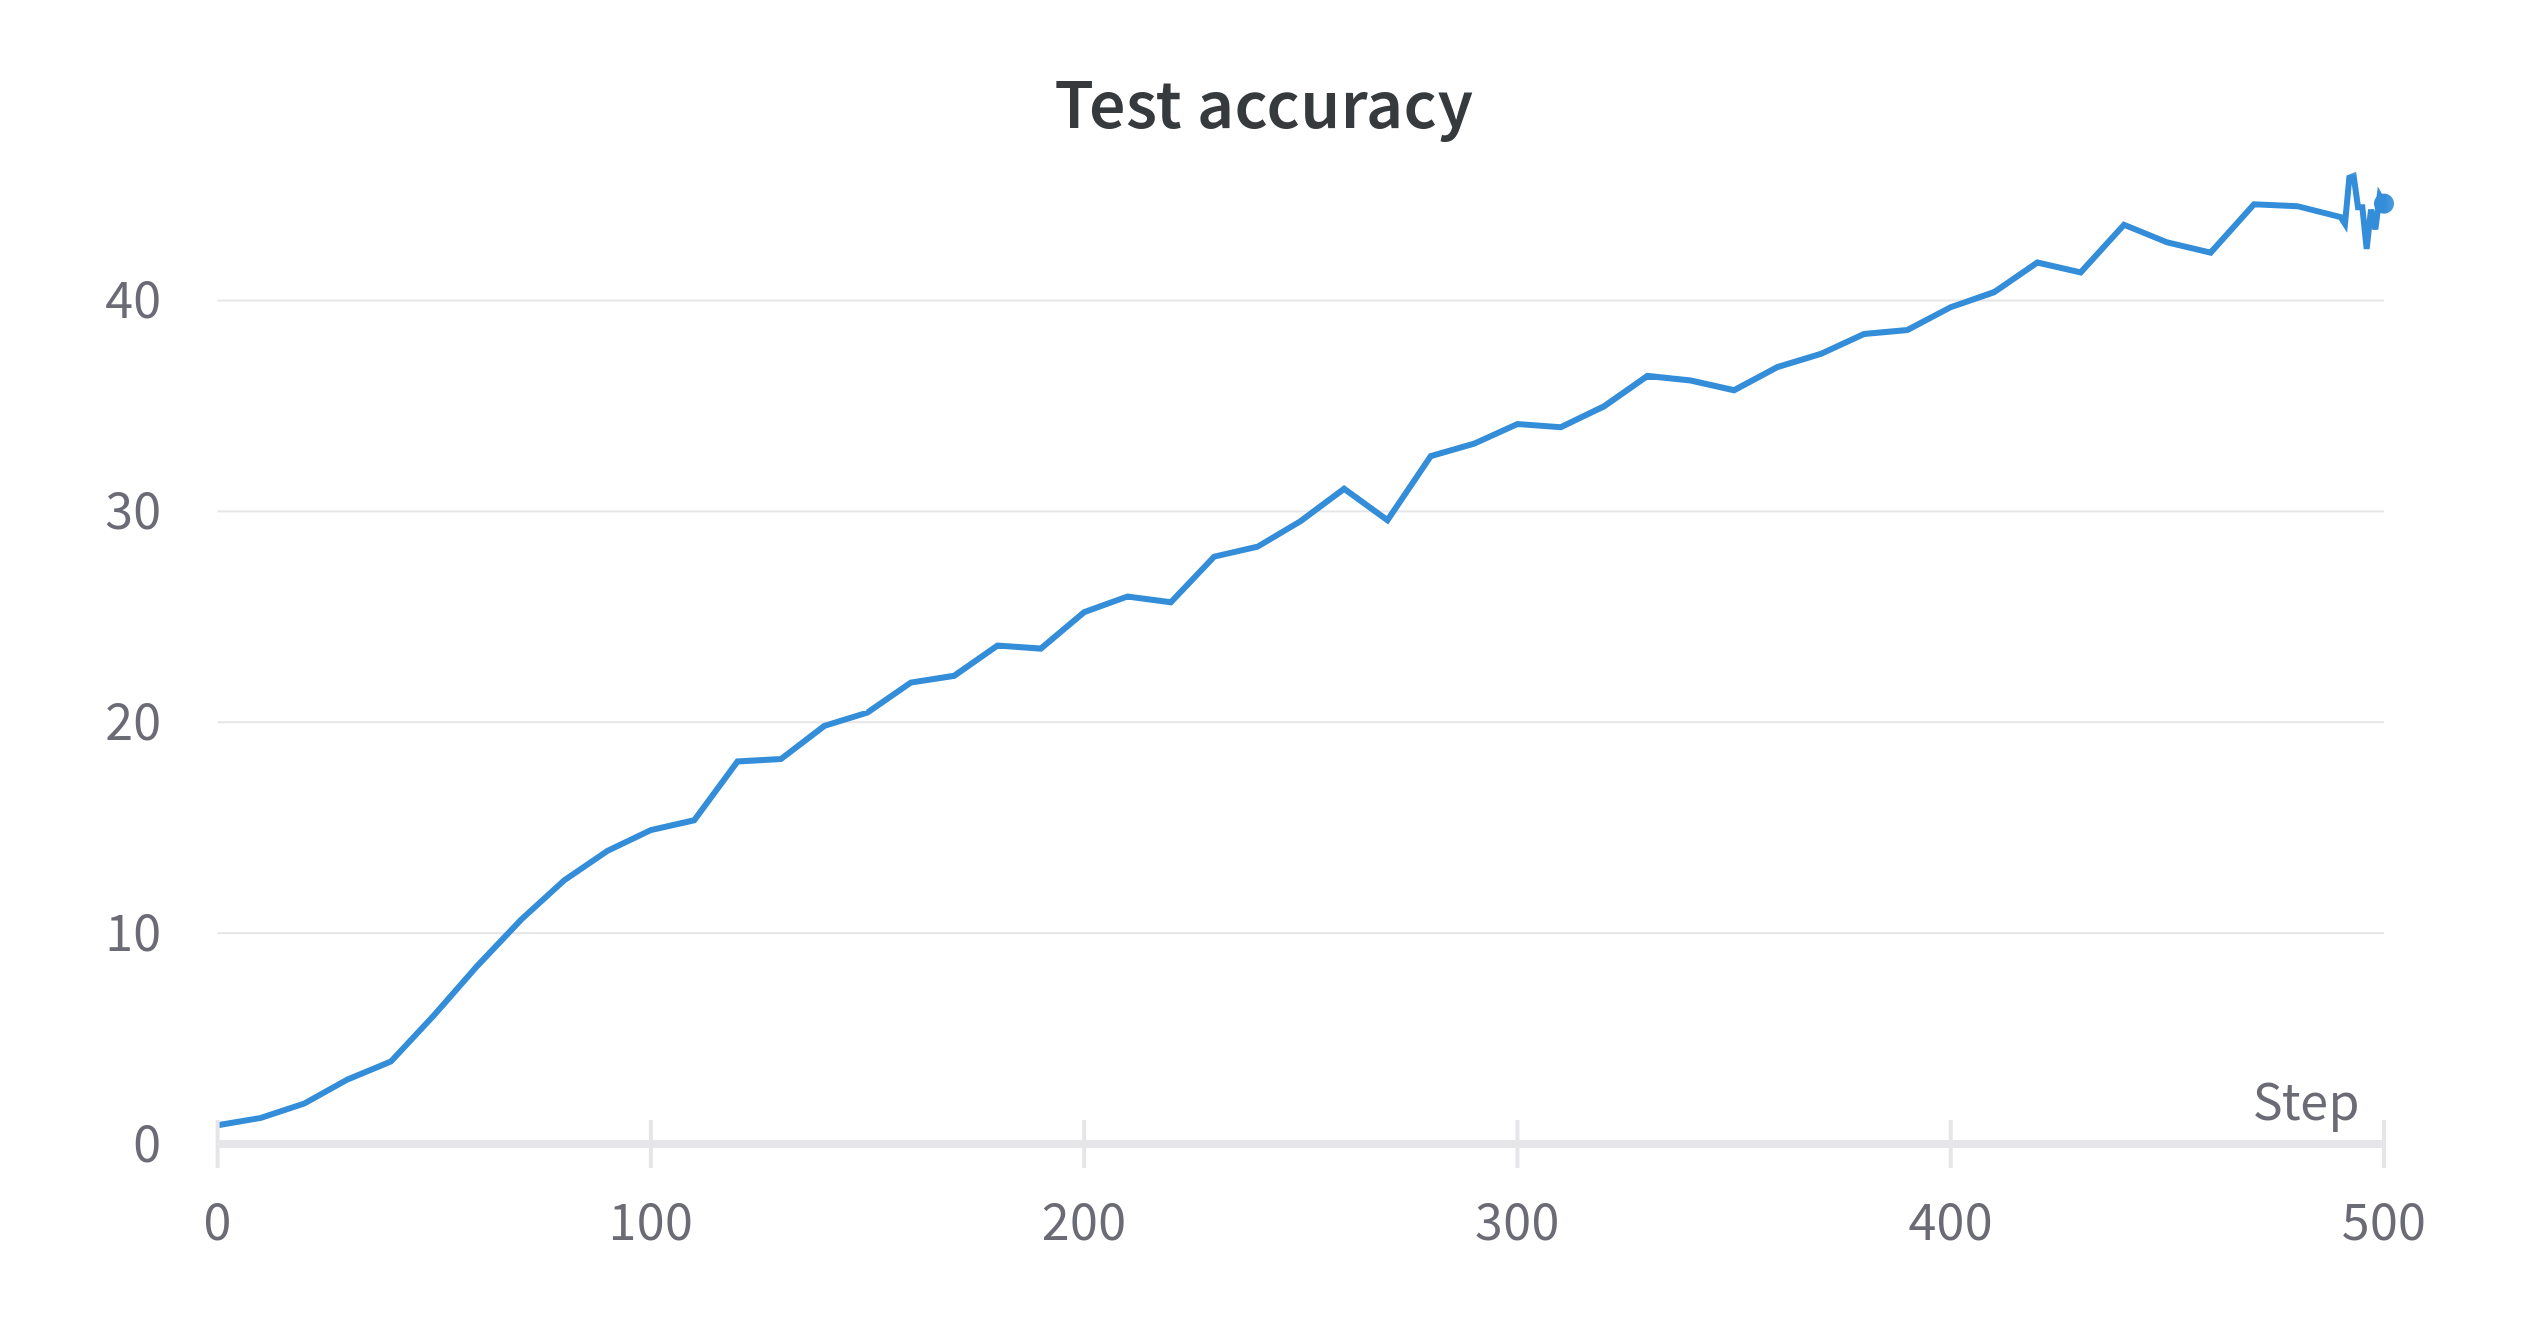
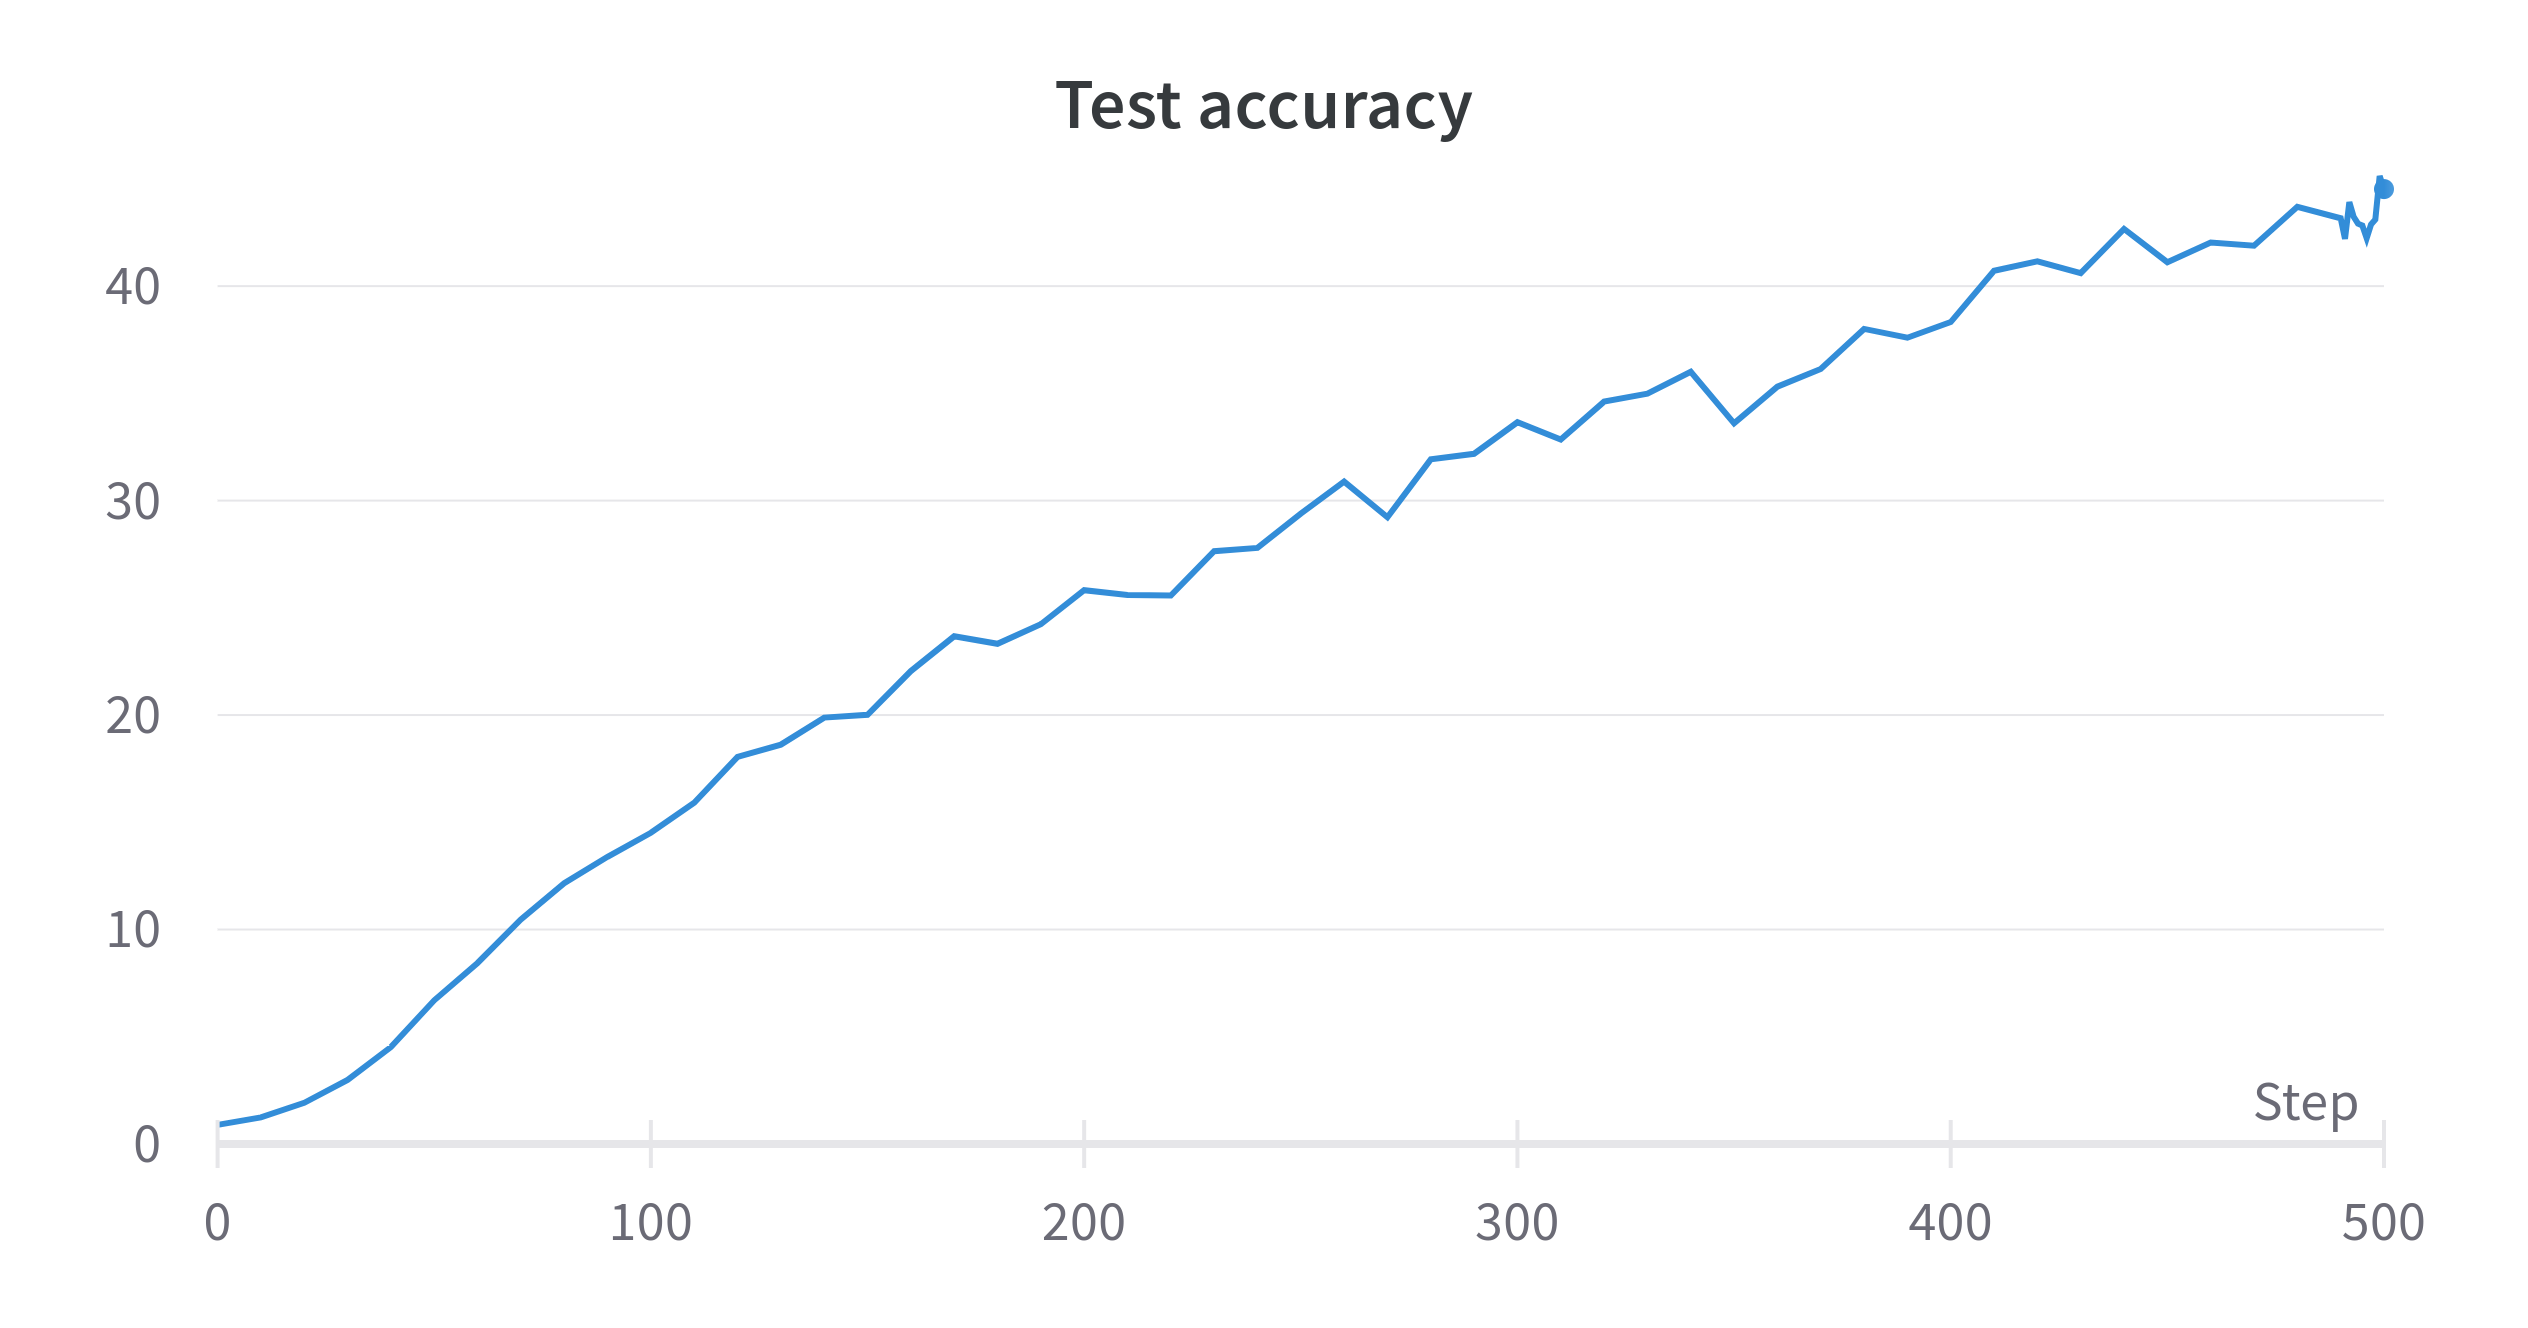
bug fixes

diff --git a/models/cifar100/resnet20gn.py b/models/cifar100/resnet20gn.py
@@ -1,81 +1,176 @@
+import torch
+import torchvision
 import torch.nn as nn
-from torch import Tensor
+from typing import Optional, Type, Union
+from torchvision.models.resnet import BasicBlock, Bottleneck, conv3x3, conv1x1
 
-LAYERS = [3, 3, 3]
-GROUPS = 2
+class BasicBlock(torchvision.models.resnet.BasicBlock):
+    expansion: int = 1
 
-# 3x3 convolution
-def conv3x3(in_channels, out_channels, stride=1):
-    return nn.Conv2d(in_channels, out_channels, kernel_size=3, 
-                     stride=stride, padding=1, bias=False)
-
-# Residual block
-class ResidualBlock(nn.Module):
-    def __init__(self, in_channels, out_channels, stride=1, downsample=None, groups=2):
-        super(ResidualBlock, self).__init__()
-        self.conv1 = conv3x3(in_channels, out_channels, stride)
-        self.bn1 = nn.GroupNorm(groups, out_channels)
+    def __init__(
+        self,
+        inplanes: int,
+        planes: int,
+        stride: int = 1,
+        downsample: Optional[nn.Module] = None,
+        groups: int = 1,
+        base_width: int = 64,
+        dilation: int = 1,
+        norm_layer: str=None,
+    ) -> None:
+        super(torchvision.models.resnet.BasicBlock, self).__init__()
+        if norm_layer == "bn":
+            self.bn1 = nn.BatchNorm2d(planes)
+            self.bn2 = nn.BatchNorm2d(planes)
+        else:
+            self.bn1 = nn.GroupNorm(groups, planes)
+            self.bn2 = nn.GroupNorm(groups, planes)
+        if base_width != 64:
+            raise ValueError("BasicBlock only supports base_width=64")
+        if dilation > 1:
+            raise NotImplementedError("Dilation > 1 not supported in BasicBlock")
+        # Both self.conv1 and self.downsample layers downsample the input when stride != 1
+        self.conv1 = conv3x3(inplanes, planes, stride)
         self.relu = nn.ReLU(inplace=True)
-        self.conv2 = conv3x3(out_channels, out_channels)
-        self.bn2 = nn.GroupNorm(groups, out_channels)
+        self.conv2 = conv3x3(planes, planes)
         self.downsample = downsample
+        self.stride = stride
 
-    def forward(self, x):
-        residual = x
+    def forward(self, x: torch.Tensor) -> torch.Tensor:
+        identity = x
+
         out = self.conv1(x)
         out = self.bn1(out)
         out = self.relu(out)
+
         out = self.conv2(out)
         out = self.bn2(out)
-        if self.downsample:
-            residual = self.downsample(x)
-        out += residual
+
+        if self.downsample is not None:
+            identity = self.downsample(x)
+
+        out += identity
         out = self.relu(out)
+
         return out
+
+
+class ResNet(torchvision.models.ResNet):
+    """ResNet generalization for CIFAR thingies."""
+
+    def __init__(self, block, layers, num_classes=10, zero_init_residual=False,
+                 groups=1, base_width=64, replace_stride_with_dilation=None,
+                 norm_layer=None, strides=[1, 2, 2, 2], pool='avg'):
+        """Initialize as usual. Layers and strides are scriptable."""
+        super(torchvision.models.ResNet, self).__init__()  # nn.Module
+
+        self.dilation = 1
+        if replace_stride_with_dilation is None:
+            # each element in the tuple indicates if we should replace
+            # the 2x2 stride with a dilated convolution instead
+            replace_stride_with_dilation = [False, False, False, False]
+        if len(replace_stride_with_dilation) != 4:
+            raise ValueError("replace_stride_with_dilation should be None "
+                             "or a 4-element tuple, got {}".format(replace_stride_with_dilation))
+        self._norm_layer = norm_layer if norm_layer is not None else "bn"
+        self.groups = groups
+
+        self.inplanes = base_width
+        if self._norm_layer == "bn":
+                self.bn1 = nn.BatchNorm2d(self.inplanes)
+        else:
+            self.bn1 = nn.GroupNorm(self.groups, self.inplanes)
+
+        self.base_width = 64  # Do this to circumvent BasicBlock errors. The value is not actually used.
+        self.conv1 = nn.Conv2d(3, self.inplanes, kernel_size=3, stride=1, padding=1, bias=False)
+        self.relu = nn.ReLU(inplace=True)
+
+        self.layers = nn.ModuleList()
+        width = self.inplanes
+        for idx, layer in enumerate(layers):
+            self.layers.append(self._make_layer(block, width, layer, stride=strides[idx], dilate=replace_stride_with_dilation[idx]))
+            width *= 2
+
+        self.pool = nn.AdaptiveAvgPool2d((1, 1)) if pool == 'avg' else nn.AdaptiveMaxPool2d((1, 1))
+        self.fc = nn.Linear(width // 2 * block.expansion, num_classes)
+
+        for m in self.modules():
+            if isinstance(m, nn.Conv2d):
+                nn.init.kaiming_normal_(m.weight, mode='fan_out', nonlinearity='relu')
+            elif isinstance(m, (nn.BatchNorm2d, nn.GroupNorm)):
+                nn.init.constant_(m.weight, 1)
+                nn.init.constant_(m.bias, 0)
+
+        # Zero-initialize the last BN in each residual branch,
+        # so that the residual branch starts with zeros, and each residual block behaves like an identity.
+        # This improves the model by 0.2~0.3% according to https://arxiv.org/abs/1706.02677
+        if zero_init_residual:
+            for m in self.modules():
+                if isinstance(m, torchvision.models.resnet.Bottleneck):
+                    nn.init.constant_(m.bn3.weight, 0)
+                elif isinstance(m, BasicBlock):
+                    nn.init.constant_(m.bn2.weight, 0)
+
+
+    def _make_layer(
+        self,
+        block: Type[Union[BasicBlock, Bottleneck]],
+        planes: int,
+        blocks: int,
+        stride: int = 1,
+        dilate: bool = False,
+    ) -> nn.Sequential:
+        norm_layer = self._norm_layer
+        downsample = None
+        previous_dilation = self.dilation
+        if dilate:
+            self.dilation *= stride
+            stride = 1
+        if stride != 1 or self.inplanes != planes * block.expansion:
+            downsample = nn.Sequential(
+                conv1x1(self.inplanes, planes * block.expansion, stride),
+                nn.BatchNorm2d(planes * block.expansion) if self._norm_layer == "bn" else nn.GroupNorm(self.groups, planes * block.expansion),
+            )
+
+        layers = []
+        layers.append(
+            block(
+                self.inplanes, planes, stride, downsample, self.groups, self.base_width, previous_dilation, norm_layer
+            )
+        )
+        self.inplanes = planes * block.expansion
+        for _ in range(1, blocks):
+            layers.append(
+                block(
+                    self.inplanes,
+                    planes,
+                    groups=self.groups,
+                    base_width=self.base_width,
+                    dilation=self.dilation,
+                    norm_layer=norm_layer,
+                )
+            )
+
+        return nn.Sequential(*layers)
+        
+
+    def _forward_impl(self, x):
+        # See note [TorchScript super()]
+        x = self.conv1(x)
+        x = self.bn1(x)
+        x = self.relu(x)
+
+        for layer in self.layers:
+            x = layer(x)
+
+        x = self.pool(x)
+        x = torch.flatten(x, 1)
+        x = self.fc(x)
+
+        return x
+
 
 class ClientModel(nn.Module):    
     def __init__(self, lr:float, num_classes:int, device:int=0):
         super(ClientModel, self).__init__()
-        self.groups = GROUPS
-        self.in_channels = 16
-        self.device = device
-        self.conv = conv3x3(3, 16)
-        self.bn = nn.GroupNorm(self.groups, 16)
-        self.relu = nn.ReLU(inplace=True)
-        self.layer1 = self.make_layer(16, LAYERS[0])
-        self.layer2 = self.make_layer(32, LAYERS[1], 2)
-        self.layer3 = self.make_layer(64, LAYERS[2], 2)
-        self.avg_pool = nn.AvgPool2d(8)
-        self.fc = nn.Linear(64, num_classes)
-        self.size = self.model_size()
-
-    def make_layer(self, out_channels, blocks, stride=1):
-        downsample = None
-        if (stride != 1) or (self.in_channels != out_channels):
-            downsample = nn.Sequential(
-                conv3x3(self.in_channels, out_channels, stride=stride),
-                nn.GroupNorm(self.groups, out_channels))
-        layers = []
-        layers.append(ResidualBlock(self.in_channels, out_channels, stride, downsample, self.groups))
-        self.in_channels = out_channels
-        for i in range(1, blocks):
-            layers.append(ResidualBlock(out_channels, out_channels, 1, None, self.groups))
-        return nn.Sequential(*layers)
-
-    def forward(self, x):
-        out = self.conv(x)
-        out = self.bn(out)
-        out = self.relu(out)
-        out = self.layer1(out)
-        out = self.layer2(out)
-        out = self.layer3(out)
-        out = self.avg_pool(out)
-        out = out.view(out.size(0), -1)
-        out = self.fc(out)
-        return out
-
-    def model_size(self):
-        tot_size = 0
-        for param in self.parameters():
-            tot_size += param.size()[0]
-        return tot_size
+        return ResNet(BasicBlock, layers=[3, 3, 3], num_classes=num_classes, norm_layer="gn", groups=2)
